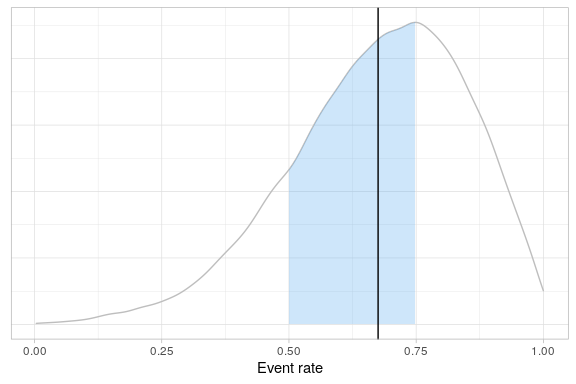
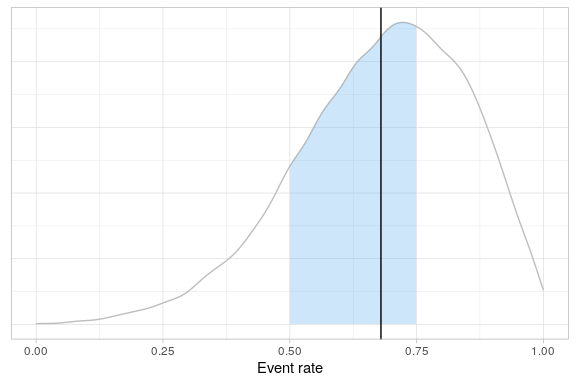
Update spellings.  minor tweak to README.

diff --git a/README.md b/README.md
@@ -22,7 +22,7 @@ Tools currently exist for
 
 -   Dynamic Quality Tolerance Limits (QTLs) using Bayesian Hierarchical
     Models (ongoing)
--   Observed-Minus-Expected methodology (ongoing)
+-   Observed-Minus-Expected methodology
 -   Observed/Expected methodology (ongoing)
 
 This package is a work-in-progress. It’s primary focus is dynamic QTLs.
@@ -31,7 +31,7 @@ Other methodologies are included for completeness.
 ## Installation
 
 You can install the development version of rbqmR from
-[GitHub](https://github.com/) with:
+[GitHub](https://github.com/openpharma/rbqmR) with:
 
 ``` r
 # install.packages("devtools")
@@ -219,31 +219,31 @@ fitted
 #> # A tibble: 20,000 × 4
 #>        p     a     b     q
 #>    <dbl> <dbl> <dbl> <int>
-#>  1 0.379  4.73  2.71     6
-#>  2 0.759  5.26  2.84    65
-#>  3 0.892  5.40  1.97    91
-#>  4 0.382  6.43  2.42     7
-#>  5 0.628  7.53  2.33    37
-#>  6 0.836  8.06  2.35    82
-#>  7 0.931  8.15  2.41    96
-#>  8 0.830  7.54  3.23    81
-#>  9 0.767  8.23  2.92    67
-#> 10 0.702  6.73  2.73    53
+#>  1 0.957  6.58  2.89    98
+#>  2 0.825  7.55  3.00    79
+#>  3 0.556  6.48  2.45    23
+#>  4 0.886  6.05  1.96    90
+#>  5 0.747  7.67  3.38    62
+#>  6 0.686  9.06  3.56    48
+#>  7 0.689  6.61  3.24    49
+#>  8 0.522  6.73  3.43    18
+#>  9 0.596  6.36  3.86    30
+#> 10 0.701  7.17  3.10    52
 #> # … with 19,990 more rows
 #> 
 #> $results
 #> 
 #> JAGS model summary statistics from 20000 samples (chains = 2; adapt+burnin = 5000):
-#>                                                                         
-#>       Lower95 Median Upper95   Mean      SD Mode     MCerr MC%ofSD SSeff
-#> p[10] 0.35768 0.6934 0.99162 0.6752 0.17317   -- 0.0013198     0.8 17216
-#> a      2.2465 5.9101  9.9972 5.9191   2.272   --  0.054779     2.4  1720
-#> b     0.67248 2.6332  5.2003 2.7849  1.2399   --  0.030437     2.5  1660
-#>                      
-#>          AC.10   psrf
-#> p[10] 0.011195 1.0002
-#> a      0.20733 1.0008
-#> b      0.21395 1.0006
+#>                                                                           
+#>       Lower95  Median Upper95    Mean      SD Mode     MCerr MC%ofSD SSeff
+#> p[10] 0.36511 0.69686 0.99238 0.67978 0.16999   -- 0.0013547     0.8 15746
+#> a       2.258  6.0665   9.974  6.0156  2.3002   --  0.058922     2.6  1524
+#> b     0.65735   2.698  5.2671  2.8445  1.2772   --  0.034558     2.7  1366
+#>                        
+#>            AC.10   psrf
+#> p[10] -0.0029928 1.0003
+#> a        0.23967 1.0013
+#> b        0.26633 1.0013
 #> 
 #> Total time taken: 3.3 seconds
 #> 
@@ -294,7 +294,7 @@ berrySummary %>%
 #> [1] "OK"
 #> 
 #> $qtl
-#> [1] 0.6751967
+#> [1] 0.6797793
 #> 
 #> $data
 #> # A tibble: 9 × 5
@@ -354,7 +354,7 @@ berrySummary %>%
 #> [1] "OK"
 #> 
 #> $qtl
-#> [1] 0.6933979
+#> [1] 0.6968642
 #> 
 #> $data
 #> # A tibble: 9 × 5
@@ -388,7 +388,7 @@ berrySummary %>%
 #> 
 #> $qtl
 #>       10% 
-#> 0.4402933 
+#> 0.4507215 
 #> 
 #> $data
 #> # A tibble: 9 × 5
@@ -430,7 +430,7 @@ qtlProbInRange
 #> [1] "action"
 #> 
 #> $qtl
-#> [1] 0.46665
+#> [1] 0.4731
 #> 
 #> $data
 #> # A tibble: 9 × 5
@@ -488,7 +488,7 @@ berrySummary %>%
     }
   )
 #> $qtl
-#> [1] 0.6751967
+#> [1] 0.6797793
 #> 
 #> $status
 #> [1] "Breach"
@@ -539,16 +539,16 @@ The `quantiles` element of the return value contains the mappings from
 quantile of the posterior to observed values of the metric. For example,
 the first row of `rvSiteMetrics$quantiles` shows that the lower action
 limit is the 5th centile of the posterior, which corresponds to an event
-probability of 0.363.
+probability of 0.372.
 
 ``` r
 rvSiteMetrics$quantiles
 #> # A tibble: 4 × 4
 #>   Threshold Status Quantile     p
 #>   <chr>     <chr>     <dbl> <dbl>
-#> 1 Lower     action     0.05 0.363
-#> 2 Lower     warn       0.2  0.531
-#> 3 Upper     warn       0.8  0.830
+#> 1 Lower     action     0.05 0.372
+#> 2 Lower     warn       0.2  0.538
+#> 3 Upper     warn       0.8  0.833
 #> 4 Upper     action     0.95 0.927
 ```
 
